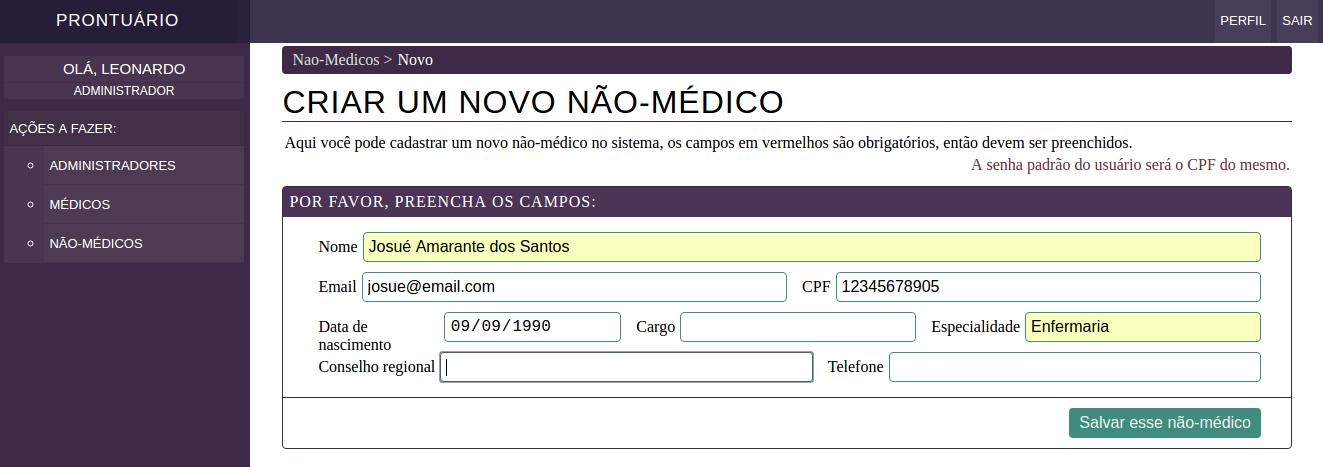
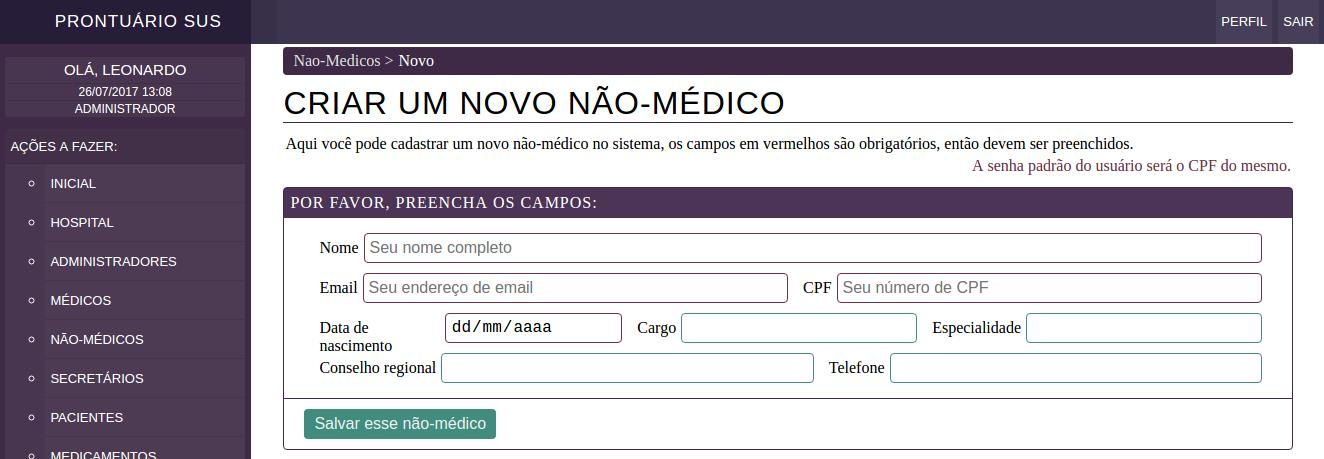
corrigindo gerencia nao medicos

diff --git a/planejamento/gerencia-nao-medicos.md b/planejamento/gerencia-nao-medicos.md
@@ -7,15 +7,20 @@ Realizar o gerenciamento dos não médicos no sistema, podendo:
 * Editar qualquer não-médico do sistema.
 * Apagar ou bloquear qualquer não-médico.
 
+
 ## Implementação
 
-Em um item do menu lateral existe o atalho apra o gerenciamento de não-médicos, ao clicar no mesmo, é exibida uma tela com a listagem dos não-médicos registrados, o resultado de qualquer ação é exibido na mesma tela, como no exemplo abaixo, onde houve a edição da não-médico 'Marta Guiliana Silva':
+Em um item do menu lateral existe o atalho apra o gerenciamento de não-médicos, ao clicar no mesmo, é exibida uma tela com a listagem dos não-médicos registrados:
 
 ![Tela de login](./img/lista-nao-medicos.jpeg?raw=true)
 
 
-Note também a existência das opções de edição, remoção e bloqueio/desbloqueio de um não-médico, além disso é possível clicar em criar um novo, onde teremos acesso a seguinte página com o formulário validando cada dado:
+Além da opção de busca por diversos atributos, podemos criar um novo não-médico, com o seguinte formulário:
 
 ![Painel inicial](./img/cadastro-nao-medico.jpeg?raw=true)
+
+Por fim, possuímos um botão 'gerenciar', onde é exibido todos os dados do não-médico, além das opções de gerenciamento, como remoção, edição, bloqueio e impressão:
+
+![Tela de login](./img/gerencia-nao-medico.jpeg?raw=true)
 
 [Voltar](../README.md) 
